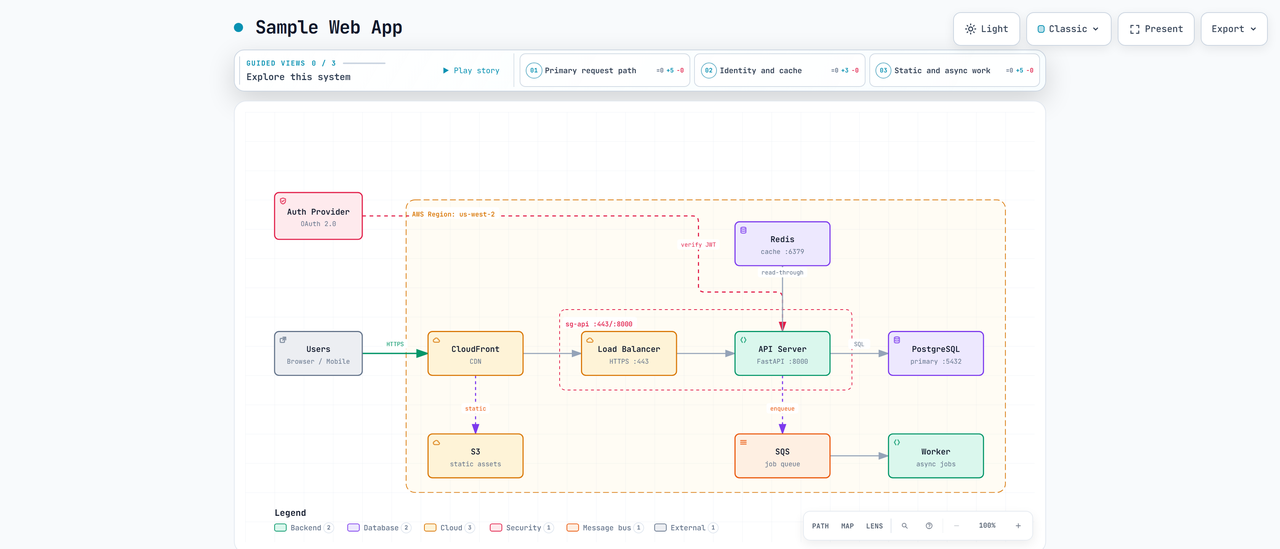
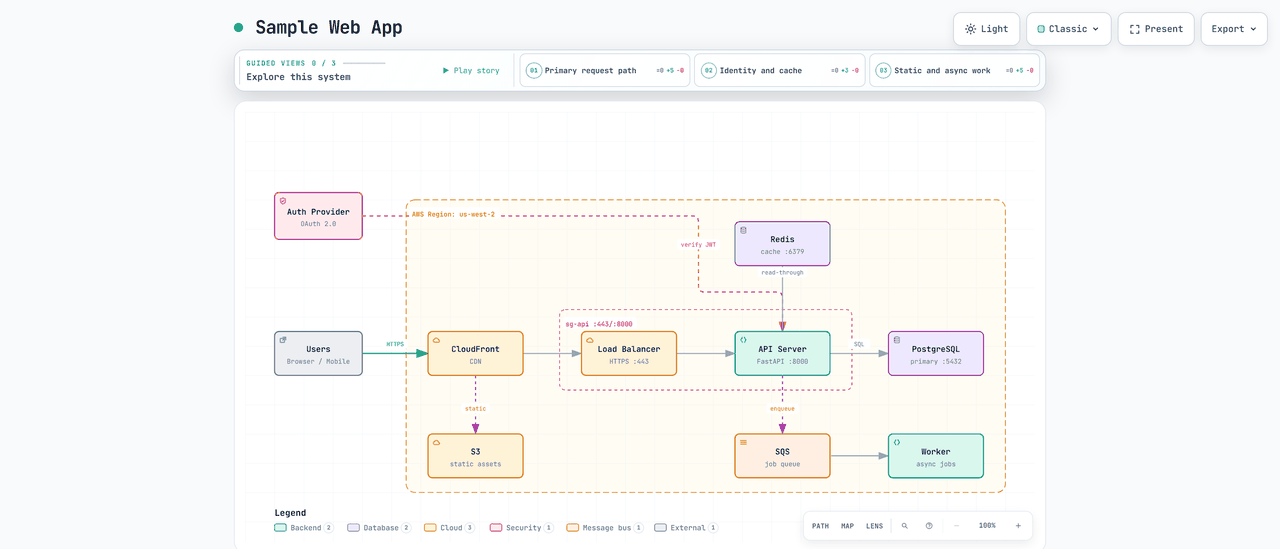
fix(check): count the files the next commit will add, and shrink the screenshots
check:size counted `git ls-files` -- what is already tracked -- so it was blind
to the one change most likely to break it. The five new screenshots took the
tree to 6.1 MB against a 6 MB budget, the gate passed locally because they were
still untracked, and it failed on every CI leg once the commit made them
tracked. The only way to find out was to push.

Same shape as the check:changelog defect fixed two commits ago, and the same
fix: ask git the question CI will ask. --others --exclude-standard adds files
that are neither tracked nor ignored, which is exactly what the next `git add`
picks up. A 700 KB plant proves it fires. The output no longer calls this the
"tracked tree", because it is not that any more.

The budget is unchanged. The captures are now reduced to a 256-colour palette --
what PNG was built for on flat UI, with solid fills, hairlines and mono text --
taking the five from 871 KB to 359 KB with no visible difference at any zoom
worth looking at. The honest response to hitting a budget is smaller files.

diff --git a/CHANGELOG.md b/CHANGELOG.md
@@ -15,6 +15,21 @@ stops being one.
 
 ## 2026-09-01
 
+### check:size was blind to the change most likely to break it
+
+The five screenshots took the tree to 6.1 MB against a 6 MB budget. The gate
+passed locally and failed on every CI leg, because it counted `git ls-files` --
+what is *already* tracked -- and the new files were still untracked when it ran.
+The only way to find out was to push. That is the second gate this week with the
+same shape as the changelog one, and the same fix: ask git the question CI will
+ask. It now counts untracked, un-ignored files too, and a 700 KB plant proves it.
+
+The budget itself is unchanged. The screenshots are now reduced to a 256-colour
+palette, which is what PNG was built for on flat UI -- solid fills, hairlines,
+mono text -- and takes the five captures from 871 KB to 359 KB with no visible
+difference at any zoom worth looking at. The honest response to a budget being
+hit is smaller files, not a bigger budget.
+
 ### The hero is the artifact now, and it is in colour
 
 The top of the README was the self-model: a tall, sparse, entirely grey diagram
